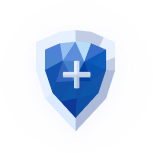
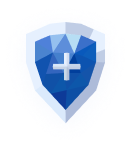
changed design of options page and made it responsive

Changed region(s): [[0.2424, 0.1307, 0.8182, 0.8627]]

diff --git a/src/components/pages/cover/CoverOptionsPage.jsx b/src/components/pages/cover/CoverOptionsPage.jsx
@@ -7,6 +7,7 @@ import { OptionActionCard } from "@/components/UI/organisms/option/action-card";
 import { Container } from "@/components/UI/atoms/container";
 import { useCoverInfo } from "@/src/hooks/useCoverInfo";
 import { getCoverImgSrc, toBytes32 } from "@/src/helpers/cover";
+import { classNames } from "@/utils/classnames";
 
 export const CoverOptionsPage = () => {
   const router = useRouter();
@@ -20,34 +21,51 @@ export const CoverOptionsPage = () => {
 
   const imgSrc = getCoverImgSrc(coverInfo);
   const title = coverInfo.coverName;
-
   return (
-    <div className="px-8 py-6 min-h-screen bg-gradient-bg bg-cover bg-left">
-      <CoverProfileInfoShort imgSrc={imgSrc} title={title} />
+    <div className="md:px-2 lg:px-8 py-6 min-h-screen">
+      <div className="max-w-7xl mx-auto px-4 sm:px-5 md:px-4">
+        <CoverProfileInfoShort
+          imgSrc={imgSrc}
+          title={title}
+          className="mb-7 lg:mb-28"
+          fontSizeClass="text-h7 md:text-h4"
+        />
+      </div>
       <Container className="pb-16">
-        <h2 className="text-h2 font-sora font-bold mb-12 text-center">
+        <h2 className="text-h4 md:text-h3 lg:text-h2 font-sora font-bold mb-4 md:mb-6 lg:mb-12 text-center">
           I Want to
         </h2>
-        <div className="container mx-auto justify-items-center grid grid-cols-1 gap-8 sm:grid-cols-2 lg:grid-cols-4 mt-14 mb-24">
+        <div className="container mx-auto justify-items-center grid grid-cols-2 gap-4 lg:gap-8 sm:grid-cols-2 lg:grid-cols-4 mb-6 md:mb-8 lg:mb-14">
           {Object.keys(coverActions).map((actionKey) => {
             return (
               <Link
                 key={actionKey}
                 href={coverActions[actionKey].getHref(cover_id)}
               >
-                <a className="rounded-3xl py-12 h-full transition-all hover:bg-B0C4DB focus:bg-B0C4DB focus:outline-none focus-visible:ring-2 focus-visible:ring-4e7dd9">
+                <a
+                  className={classNames(
+                    "rounded-2xl md:rounded-3xl group py-6 md:py-12 h-full transition duration-300 ease-out focus:bg-white focus:outline-none",
+                    "hover:border-B0C4DB hover:ease-in hover:border-0.5 hover:border-solid  hover:shadow-option  hover:box-border hover:rounded-3xl  hover:bg-white",
+                    "border-B0C4DB border-0.5 box-border bg-white lg:bg-transparent lg:border-none"
+                  )}
+                >
                   <OptionActionCard
                     title={coverActions[actionKey].title}
                     description={coverActions[actionKey].description}
                     imgSrc={coverActions[actionKey].imgSrc}
+                    smImgSrc={coverActions[actionKey].smImgSrc}
+                    mdImgSrc={coverActions[actionKey].mdImgSrc}
                   />
                 </a>
               </Link>
             );
           })}
         </div>
-        <div className="text-center mt-10">
-          <OutlinedButton className="rounded-big" onClick={() => router.back()}>
+        <div className="text-center">
+          <OutlinedButton
+            className="rounded-big border-solid border-4E7DD9 border-1 pt-1 pb-1 pl-5 pr-4 md:py-3 md:pl-6 md:pr-5 "
+            onClick={() => router.back()}
+          >
             &#x27F5;&nbsp;Back
           </OutlinedButton>
         </div>

diff --git a/src/config/cover/actions.js b/src/config/cover/actions.js
@@ -3,6 +3,8 @@ export const actions = {
     title: "Purchase Policy",
     description: "to get protection from hacks & exploits",
     imgSrc: `/options/purchase.png`,
+    smImgSrc: `/options/purchase-sm.png`,
+    mdImgSrc: `/options/purchase-md.png`,
     footerImgSrc: `/cover-actions/purchase.png`,
     getHref: (id) => `/cover/${id}/purchase`,
   },
@@ -10,6 +12,8 @@ export const actions = {
     title: "Provide Liquidity",
     description: "to pool risks and receive rewards",
     imgSrc: `/options/add-liquidity.png`,
+    smImgSrc: `/options/add-liquidity-sm.png`,
+    mdImgSrc: `/options/add-liquidity-md.png`,
     footerImgSrc: `/cover-actions/add-liquidity.png`,
     getHref: (id) => `/cover/${id}/add-liquidity`,
   },
@@ -17,6 +21,8 @@ export const actions = {
     title: "Report Incident",
     description: "to notify other users about the cover event",
     imgSrc: `/options/report.png`,
+    smImgSrc: `/options/report-sm.png`,
+    mdImgSrc: `/options/report-md.png`,
     footerImgSrc: `/cover-actions/report.png`,
     getHref: (id) => `/reporting/${id}/new`,
   },
@@ -24,6 +30,8 @@ export const actions = {
     title: "Claim Cover",
     description: "to receive payout by claiming cxTokens",
     imgSrc: `/options/claim.png`,
+    smImgSrc: `/options/claim-sm.png`,
+    mdImgSrc: `/options/claim-md.png`,
     footerImgSrc: `/cover-actions/claim.png`,
     getHref: (_id) => `/my-policies/active`,
   },

diff --git a/src/components/UI/organisms/option/action-card.jsx b/src/components/UI/organisms/option/action-card.jsx
@@ -1,17 +1,30 @@
-export const OptionActionCard = ({ title, description, imgSrc }) => {
+export const OptionActionCard = ({
+  title,
+  description,
+  imgSrc,
+  smImgSrc,
+  mdImgSrc,
+}) => {
   return (
     <>
       <div className="flex justify-center items-center">
-        <img
-          src={imgSrc}
-          alt={title}
-          className="w-40 h-40 bg-e6f0fe inline-block rounded-full mx-auto shadow-actionCard"
-        />
+        <picture>
+          <source media="(max-width:640px)" srcSet={smImgSrc} />
+          <source media="(max-width:1024px)" srcSet={mdImgSrc} />
+          <img
+            id="actionCard"
+            src={imgSrc}
+            alt={title}
+            className=" w-18 h-18 md:w-32 md:h-32 lg:w-40 lg:h-40 inline-block rounded-full mx-auto bg-DEEAF6 lg:bg-white group-hover:bg-DEEAF6 object-none"
+          />
+        </picture>
       </div>
-      <h4 className="text-h3 text-center font-sora font-semibold mt-12">
+      <h4 className=" text-h7 md:text-h4 lg:text-h3 text-center font-sora font-semibold mt-4 md:mt-6 lg:mt-14">
         {title}
       </h4>
-      <p className="text-7398C0 text-center mt-1 px-11">{description}</p>
+      <p className="text-7398C0 text-h7 md:text-h5 text-center mt-1 px-4 md:px-16 lg:px-11">
+        {description}
+      </p>
     </>
   );
 };

diff --git a/src/components/common/CoverProfileInfo/CoverProfileInfoShort.jsx b/src/components/common/CoverProfileInfo/CoverProfileInfoShort.jsx
@@ -1,11 +1,25 @@
-export const CoverProfileInfoShort = ({ imgSrc, title }) => {
+import { classNames } from "@/utils/classnames";
+
+export const CoverProfileInfoShort = ({
+  imgSrc,
+  title,
+  className,
+  fontSizeClass = "text-h4",
+}) => {
   return (
-    <div className="container mx-auto flex items-center mb-12">
+    <div
+      className={classNames(
+        "container mx-auto flex items-center mb-12",
+        className
+      )}
+    >
       <div className="w-11 border border-B0C4DB mr-4 rounded-full">
         <img src={imgSrc} alt={title} />
       </div>
       <div>
-        <h4 className="text-h4 font-sora font-bold">{title}</h4>
+        <h4 className={classNames("font-sora font-bold", fontSizeClass)}>
+          {title}
+        </h4>
       </div>
     </div>
   );

diff --git a/tailwind.config.js b/tailwind.config.js
@@ -7,6 +7,11 @@ module.exports = {
       mainCard:
         "0 3px 3px 0 rgb(162, 166, 218, 0.05), 0 30px 60px -30px #a2a6da",
       toolTip: "0px 2px 6px rgba(0, 0, 0, 0.25)",
+      option: "0px 4px 8px rgba(0, 0, 0, 0.1)",
+    },
+    borderWidth: {
+      0.5: "0.5px",
+      1: "1px",
     },
     colors: {
       transparent: "transparent",
@@ -27,6 +32,7 @@ module.exports = {
           lineHeight: "24px",
         },
       ],
+      h7: ["13px", "16px"],
       sm: ["14px", "16px"],
       xxs: ["10px", "8px"],
       xs: [
